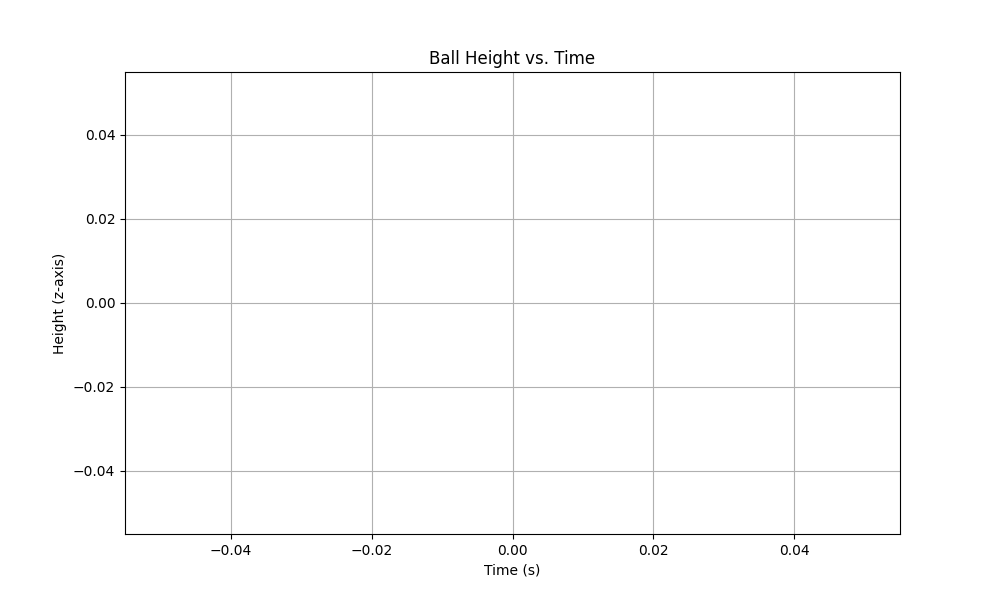
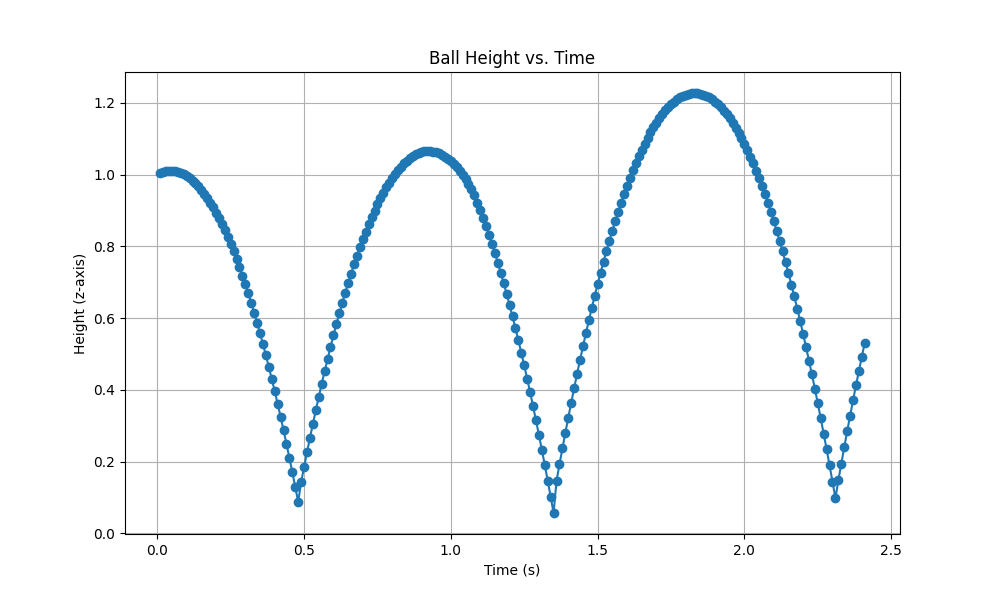
Pressing spacebar now runs the simulation

diff --git a/src/ball_collision.py b/src/ball_collision.py
@@ -14,7 +14,7 @@ viewport_width, viewport_height = 1200, 900
 restitution = 1.0
 friction_coefficient = 0.3
 ball_radius = 0.1
-running = False  # ✅ To toggle simulation start/pause
+running = False  # Toggle simulation start/pause
 
 # --- Load model ---
 xml_path = os.path.join(os.path.dirname(__file__), "..",
@@ -28,7 +28,7 @@ data.qpos[7:10] = np.array([1.0, 0.0, 1.0])
 data.qvel[0:3] = np.array([1.0, 0.0, 0.5])
 data.qvel[6:9] = np.array([-1.0, 0.0, 0.5])
 
-# --- Inertia inverse matrix ---
+# --- Inertia inverse matrix computation ---
 
 
 def compute_inverse_inertia(mass, radius):
@@ -42,7 +42,7 @@ mass1, mass2 = model.body_mass[ball1_id], model.body_mass[ball2_id]
 I_inv_ball1 = compute_inverse_inertia(mass1, ball_radius)
 I_inv_ball2 = compute_inverse_inertia(mass2, ball_radius)
 
-# --- Compute collision impulse ---
+# --- Collision impulse computation ---
 
 
 def compute_collision_impulse(mass, I_inv, v_lin, v_ang, r, n, restitution, mu):
@@ -62,11 +62,15 @@ def compute_collision_impulse(mass, I_inv, v_lin, v_ang, r, n, restitution, mu):
 
     return jn * n + jt * t_dir
 
-# --- Custom collision handling step ---
+# --- Custom simulation step with integration ---
 
 
 def step_with_custom_collisions(model, data, dt=0.01):
     mj.mj_forward(model, data)
+
+    # Integrate gravity
+    for pos_idx, vel_idx in [(0, 0), (7, 6)]:
+        data.qvel[vel_idx:vel_idx + 3] += model.opt.gravity * dt
 
     # Ball-ground collisions
     for pos_idx, vel_idx, ang_idx, mass, I_inv in [(0, 0, 3, mass1, I_inv_ball1), (7, 6, 9, mass2, I_inv_ball2)]:
@@ -84,7 +88,7 @@ def step_with_custom_collisions(model, data, dt=0.01):
             data.qvel[ang_idx:ang_idx + 3] += I_inv @ np.cross(r, impulse)
             data.qpos[pos_idx + 2] = ball_radius
 
-    # Ball-ball collision
+    # Ball-ball collisions
     diff = data.qpos[7:10] - data.qpos[0:3]
     dist = np.linalg.norm(diff)
     tol = 0.01
@@ -105,12 +109,16 @@ def step_with_custom_collisions(model, data, dt=0.01):
         data.qpos[0:3] -= correction * normal
         data.qpos[7:10] += correction * normal
 
+    # Integrate positions
+    for pos_idx, vel_idx in [(0, 0), (7, 6)]:
+        data.qpos[pos_idx:pos_idx + 3] += data.qvel[vel_idx:vel_idx + 3] * dt
 
-# --- Viewer Setup ---
+
+# --- Viewer and rendering setup ---
 if not glfw.init():
     raise RuntimeError("GLFW init failed.")
-window = glfw.create_window(
-    viewport_width, viewport_height, "Two Ball Collision Simulation", None, None)
+window = glfw.create_window(viewport_width, viewport_height,
+                            "Two Ball Custom Collision Simulation", None, None)
 glfw.make_context_current(window)
 glfw.swap_interval(1)
 
@@ -128,13 +136,12 @@ cam.distance, cam.lookat[:] = 5.0, [0.0, 0.0, 1.0]
 def keyboard(window, key, scancode, action, mods):
     global running
     if action == glfw.PRESS:
-        if key == glfw.KEY_BACKSPACE:
-            mj.mj_resetData(model, data)
-            mj.mj_forward(model, data)
-            print("Simulation reset.")
-        elif key == glfw.KEY_SPACE:
+        if key == glfw.KEY_SPACE:
             running = not running
             print("Simulation running" if running else "Simulation paused")
+        elif key == glfw.KEY_BACKSPACE:
+            mj.mj_resetData(model, data)
+            print("Simulation reset.")
         elif key == glfw.KEY_ESCAPE:
             glfw.set_window_should_close(window, True)
 
@@ -174,17 +181,18 @@ glfw.set_scroll_callback(window, scroll)
 logger_ball1, logger_ball2 = DataLogger(), DataLogger()
 simulation_time = 0.0
 
-# --- Main Simulation Loop ---
+# --- Main simulation loop ---
 while not glfw.window_should_close(window):
     if running:
         step_with_custom_collisions(model, data, dt=model.opt.timestep)
         simulation_time += model.opt.timestep
 
-        # Log positions
+        # Log trajectories
         pos1, pos2 = data.qpos[0:3], data.qpos[7:10]
         logger_ball1.record(simulation_time, pos1[2], pos1[0], pos1[1])
         logger_ball2.record(simulation_time, pos2[2], pos2[0], pos2[1])
 
+    # ✅ Always render, even if paused:
     viewport_width, viewport_height = glfw.get_framebuffer_size(window)
     viewport = mj.MjrRect(0, 0, viewport_width, viewport_height)
     mj.mjv_updateScene(model, data, opt, None, cam,
@@ -194,7 +202,8 @@ while not glfw.window_should_close(window):
     glfw.swap_buffers(window)
     glfw.poll_events()
 
-# --- Save Results ---
+
+# --- Save results ---
 logger_ball1.save_plot("src/plots/ball1_height_vs_time.png")
 logger_ball1.save_trajectory_plot_3d("src/plots/ball1_trajectory_3d.png")
 logger_ball2.save_plot("src/plots/ball2_height_vs_time.png")
